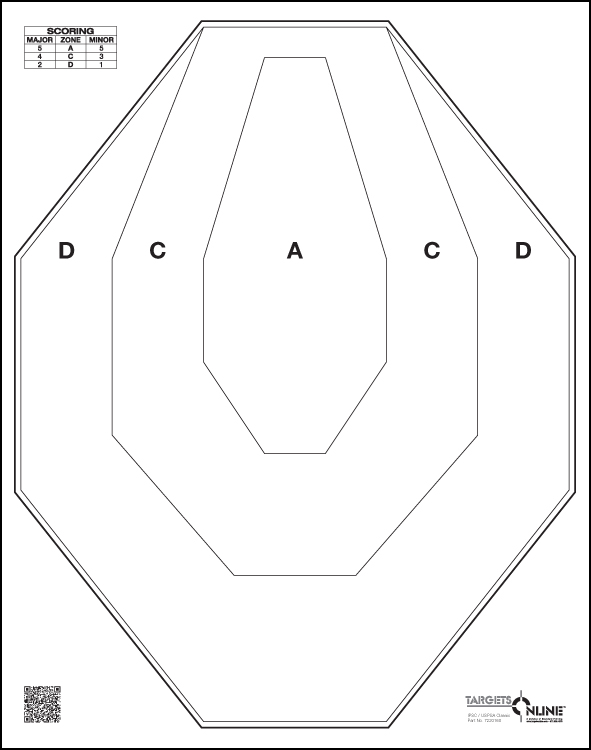
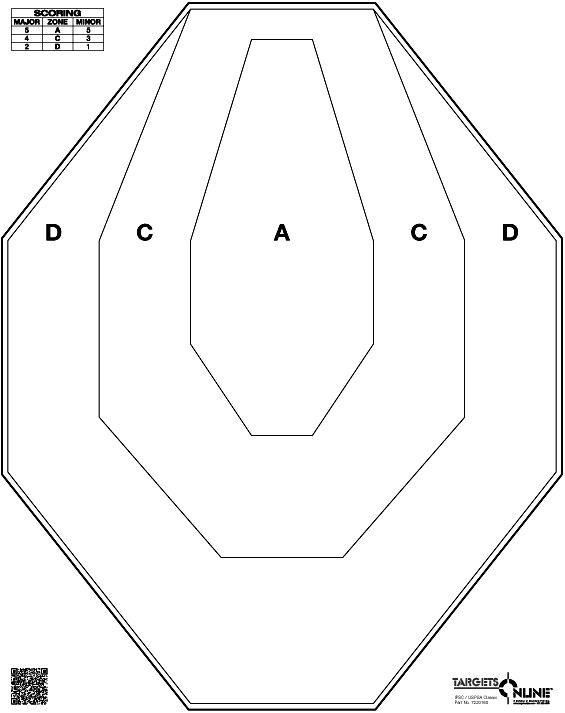
Added target image show and correct shot placement calculation

diff --git a/range.py b/range.py
@@ -18,6 +18,8 @@ class Range():
         self.red_threshold = 230
         self.target_points = []
         self.targets = []
+        self.target_image_set = []
+        self.target_show = []
         self.wait = False
 
     '''
@@ -88,9 +90,17 @@ class Range():
             #convert crop points
             self.target_points = np.asarray(np.divide(self.target_points,[self.re_scale_factor_x,self.re_scale_factor_y]),int)
 
+            #create target 
             target = Targetipsc(self.target_points, len(self.targets))
 
+            #append target to the list
             self.targets.append(target)
+
+            #TODO #NEED TO CHANGE THIS 
+            self.target_image_set.append(cv2.imread("ipsctarget1.jpg"))
+
+            #reset target points
+            self.target_points = []
 
             #reset all cv2 windows
             cv2.destroyAllWindows()
@@ -113,8 +123,11 @@ class Range():
                     if len(c)>=4:
                         # compute the center of the contour
                         M = cv2.moments(c)
-                        cX = M["m10"] / M["m00"]
-                        cY = M["m01"] / M["m00"]
+                        try:
+                            cX = M["m10"] / M["m00"]
+                            cY = M["m01"] / M["m00"]
+                        except ZeroDivisionError:
+                            return None
 
                         return (cX, cY)
             else:
@@ -159,6 +172,7 @@ class Range():
                 #destroy calibration window
                 cv2.destroyWindow("Calibration")
 
+
     '''
     Main run function
     '''
@@ -177,8 +191,14 @@ class Range():
             #read frame
             ret, frame = cap.read()
 
-            #show frame
-            cv2.imshow('frame', frame)
+
+
+            if len(self.target_image_set)>0:
+                #show frame
+                for idx, t_i in enumerate(self.target_image_set):
+                    cv2.imshow("Target - {}".format(idx), t_i)
+            else:
+                cv2.imshow('frame', frame)
 
             #if no targets made
             if len(self.targets) == 0:
@@ -212,11 +232,14 @@ class Range():
                         hit_status = False
 
                         #for each target in list
-                        for t in self.targets:
+                        for idx, t in enumerate(self.targets):
                             
                             #check if shot is inside the target
                             if t.inside_target(shot_status):
                                 print("Target [{}] HIT".format(t.get_id()))
+                                #self.target_image_set[idx] = t.get_target_image()
+                                relative_shot = t.update_target(shot_status)
+                                cv2.circle(self.target_image_set[idx], relative_shot, 3, (0,0,255), -1)
                                 hit_status = True
 
                         #check if hits were registered

diff --git a/ipsctarget.py b/ipsctarget.py
@@ -11,19 +11,36 @@ class Targetipsc():
         self.t_points = target_points
 
         #create rectangle based on chosen points
-        self.target_rect = cv2.boundingRect(target_points)
+        self.target_rect = self.get_t_rectangle(target_points)
+
+
+        print("Target rectangle")
+        print(self.target_rect)
 
         #other variables
-        self.t_trans_points = [[205,30], [385,30], [570,260], [570, 490], [390,722], [250,722], [22,490], [22,260]]
+        #self.t_trans_points = [[205,30], [385,30], [570,260], [570, 490], [390,722], [250,722], [22,490], [22,260]]
+        self.t_trans_points = [[0,0], [565,0], [565,713], [0, 713]]
         self.t_mask = []
         self.transform_matrix = self.get_transform()
 
         #Loading image
         self.t_image_init = cv2.imread("ipsctarget1.jpg")
-        self.t_image = self.t_image_init.copy
+        self.t_image = cv2.imread("ipsctarget1.jpg")
 
         #setting target id
         self.target_id = t_id
+
+    '''
+    Make target rectangle
+    '''
+    def get_t_rectangle(self, t_points):
+        (x,y,w,h) = cv2.boundingRect(t_points)
+        t1 = [x,y]
+        t2 = [x+w,y]
+        t3 = [x+w,y+h]
+        t4 = [x,y+h]
+        rect = [t1,t2,t3,t4]
+        return rect
 
     #return id
     def get_id(self):
@@ -52,15 +69,18 @@ class Targetipsc():
     def get_transform(self):
 
         #convert points
-        pts1 = np.float32(self.t_points)
+        #pts1 = np.float32(self.t_points)
+        pts1 = np.float32(self.target_rect)
         print(pts1)
         pts2 = np.float32(self.t_trans_points)
         print(pts2)
 
         #geting transform
         #self.transform_matrix = cv2.getPerspectiveTransform(pts1,pts2)
+        M = cv2.getPerspectiveTransform(pts1, pts2)
+        #M = cv2.getAffineTransform(pts1, pts2)
 
-        return cv2.getPerspectiveTransform(pts1, pts2)
+        return M
 
     '''
     Make target mask
@@ -84,10 +104,17 @@ class Targetipsc():
     def update_target(self, shot_coordinates):
         print("Updating target")
 
-        #dst = cv2.warpPerspective(shot_coordinates,self.transform_matrix,(300,300))
-        relative_shot = cv2.transform(shot_coordinates, self.transform_matrix)
+        #shot_coordinates = np.float32(shot_coordinates)
+        shot_coordinates = (shot_coordinates[0], shot_coordinates[1], 1)
 
-        cv2.circle(self.t_image, relative_shot, 3, (0,0,255), -1)
+        #calculate shot placement on target
+        relative_shot = np.array(self.transform_matrix) @ np.array(shot_coordinates)
+
+        #reassemble shot placement
+        relative_shot = (int(relative_shot[0]), int(relative_shot[1]))
+        
+        #cv2.circle(self.t_image, relative_shot, 3, (0,0,255), -1)
+        return relative_shot
 
 
     '''
